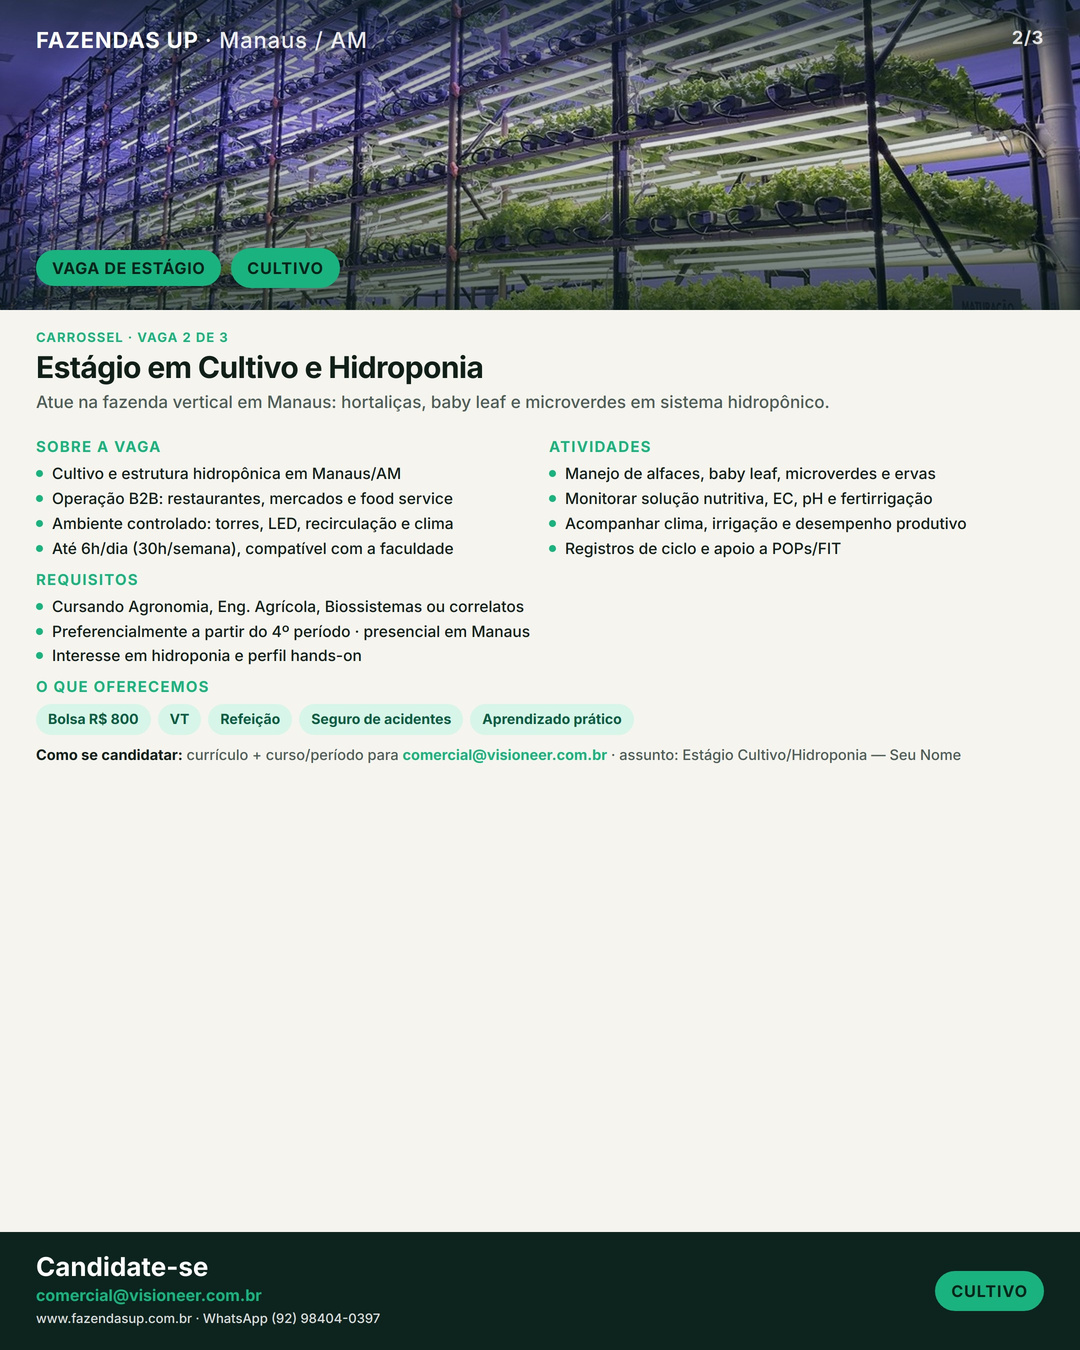
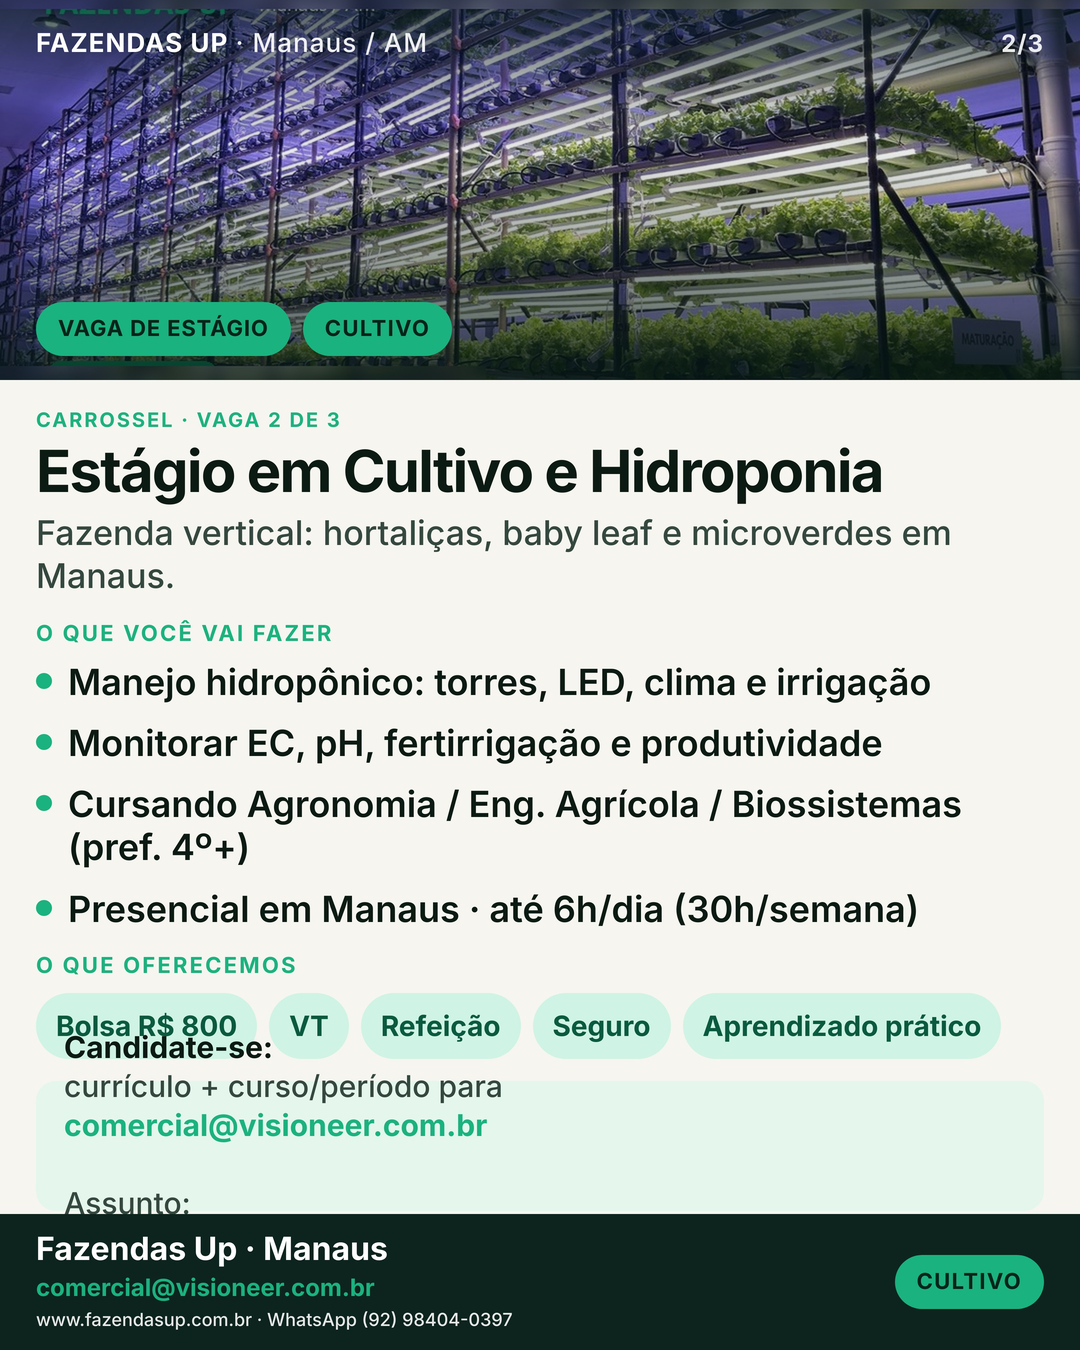
fix: artes Instagram legíveis no celular, sem vazio
Redesenha as 3 páginas do carrossel com tipografia grande
(para leitura no feed), hero forte, CTA preenchendo o espaço
e conteúdo condensado por vaga.

diff --git a/client/public/instagram-estagios/index.html b/client/public/instagram-estagios/index.html
@@ -5,7 +5,7 @@
   <meta name="viewport" content="width=device-width, initial-scale=1, viewport-fit=cover" />
   <title>Fazendas Up — Carrossel Instagram Estágio</title>
   <style>
-    :root { --green:#1ab37f; --ink:#102018; --bg:#f6f4ef; }
+    :root { --green:#1ab37f; --ink:#102018; --bg:#f4f1ea; }
     *{box-sizing:border-box}
     body{margin:0;font-family:system-ui,-apple-system,Segoe UI,Roboto,sans-serif;background:var(--bg);color:var(--ink);padding:20px 16px 48px;line-height:1.4}
     h1{font-size:1.35rem;margin:0 0 6px}

diff --git a/marketing/instagram-estagios/README.md b/marketing/instagram-estagios/README.md
@@ -1,18 +1,14 @@
 # Carrossel Instagram — Vagas de Estágio
 
-**Um único post** no feed, com **3 slides** (uma página por vaga), em **1080 × 1350** (4:5).
+**Um único post** no feed, **3 slides** (uma página por vaga), **1080 × 1350**.
 
-## Ordem do carrossel
+1. `01-admin.jpg`
+2. `02-cultivo.jpg`
+3. `03-qualidade.jpg`
 
-1. `01-admin.jpg` — Estágio em Administração  
-2. `02-cultivo.jpg` — Estágio em Cultivo e Hidroponia  
-3. `03-qualidade.jpg` — Estágio em Processamento e Qualidade  
+Tipografia grande para leitura no celular. Detalhes extras podem ir na legenda do post.
 
-## Baixar pelo celular
-
-Após o deploy do preview: `/instagram-estagios/` no site Pages.
-
-## Regenerar
+Baixar: `/instagram-estagios/` no preview Pages.
 
 ```bash
 node scripts/ig-feed/render-carousels.mjs
